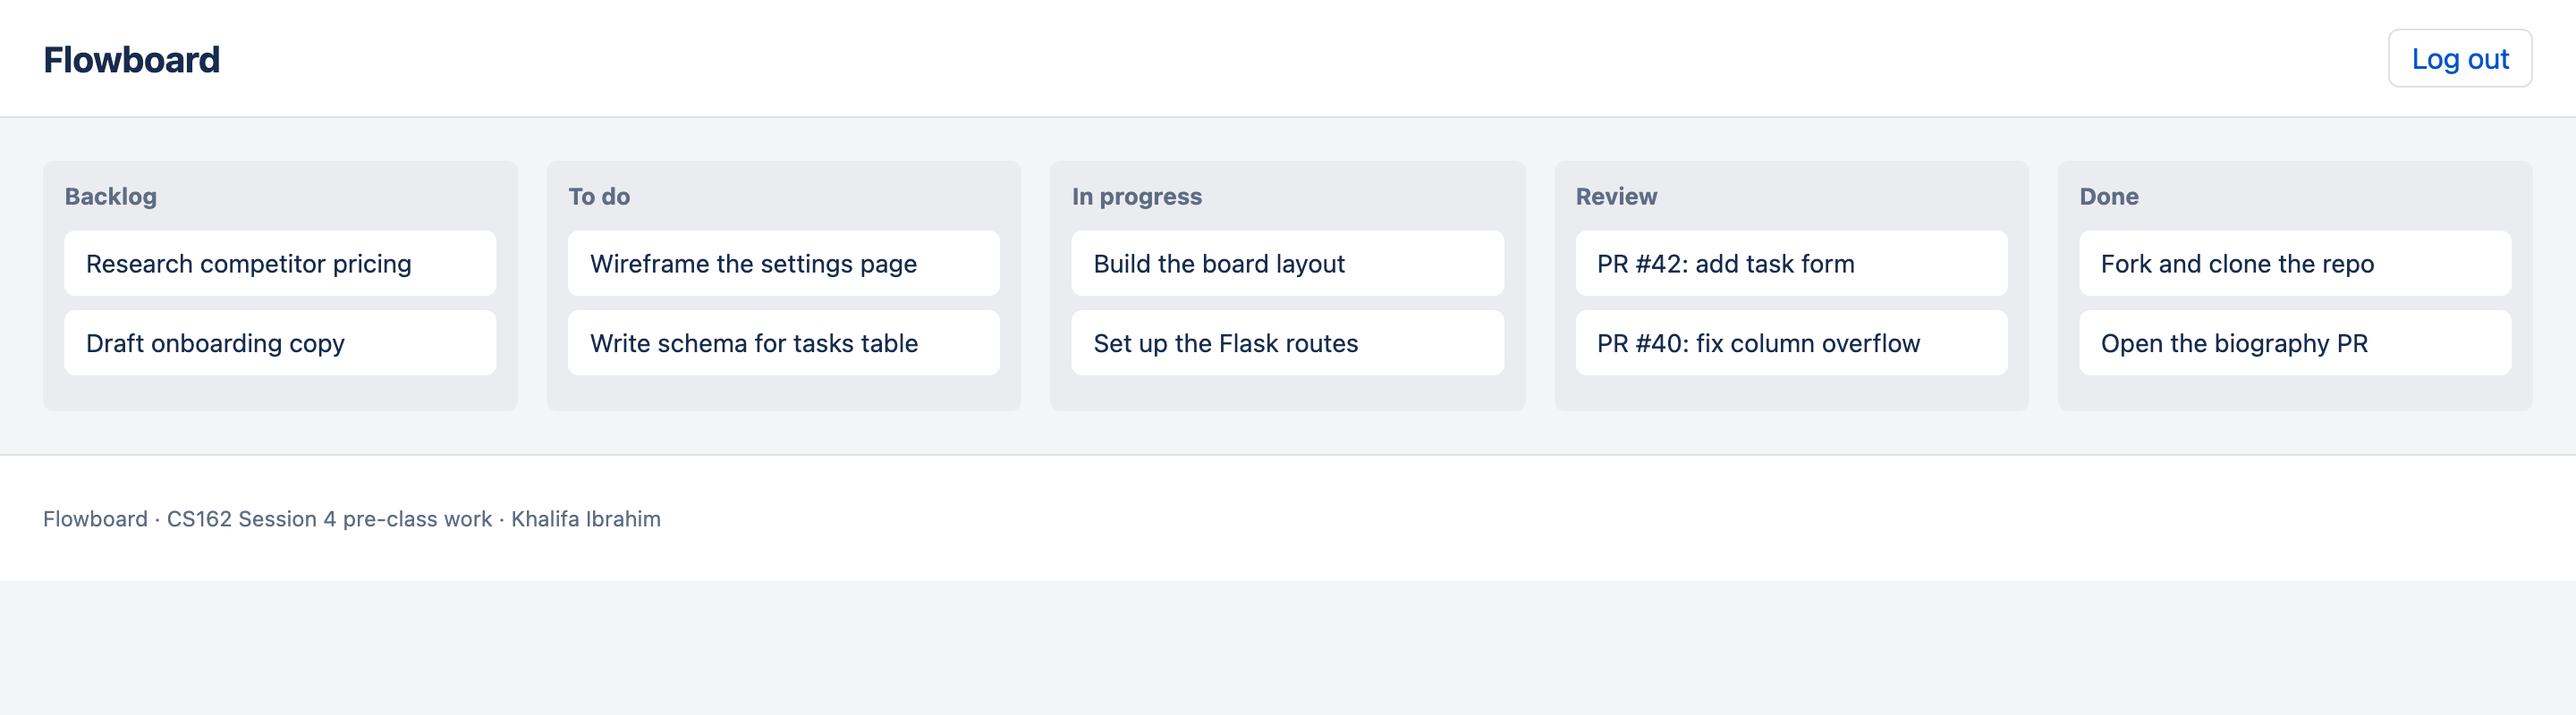
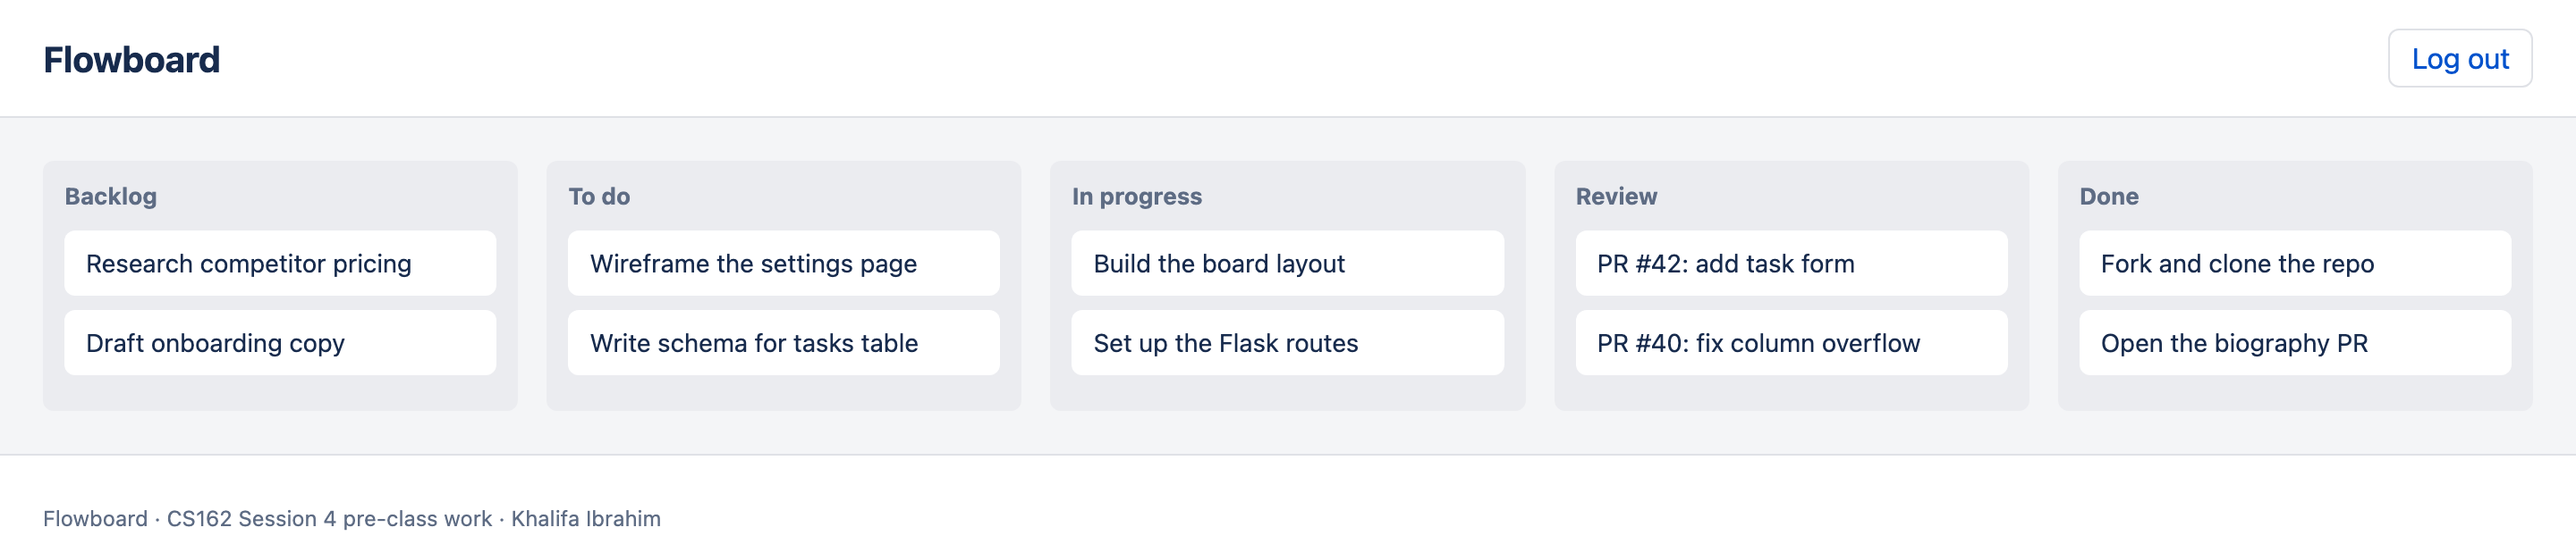
Add Gourmet Delights restaurant page

diff --git a/session_04/restaurant/index.html b/session_04/restaurant/index.html
@@ -1,0 +1,106 @@
+<!DOCTYPE html>
+<html lang="en">
+<head>
+  <meta charset="utf-8">
+  <meta name="viewport" content="width=device-width, initial-scale=1">
+  <title>Gourmet Delights</title>
+  <link rel="stylesheet" href="styles.css">
+</head>
+<body>
+
+  <!-- 1. Header: name + welcoming banner -->
+  <header class="banner">
+    <h1>Gourmet Delights</h1>
+    <p class="tagline">Seasonal plates, served slowly.</p>
+  </header>
+
+  <!-- Optional nav. Each href points at a section id further down the page. -->
+  <nav class="site-nav">
+    <ul>
+      <li><a href="#about">About</a></li>
+      <li><a href="#menu">Menu</a></li>
+      <li><a href="#contact">Contact</a></li>
+    </ul>
+  </nav>
+
+  <main>
+
+    <!-- 2. About Us -->
+    <section id="about">
+      <h2>About Us</h2>
+      <p>
+        Gourmet Delights began as a six-seat kitchen and never quite lost the habit.
+        We cook what the season gives us, change the menu when it stops making sense,
+        and keep the room quiet enough to hear the person across the table. Everything
+        is prepared in-house, from the bread to the last spoonful of sauce.
+      </p>
+    </section>
+
+    <!-- 3. Menu Highlights -->
+    <section id="menu">
+      <h2>Menu Highlights</h2>
+      <ul class="dishes">
+        <li>
+          <h3>Seared Scallops <span class="price">24</span></h3>
+          <p>Cauliflower purée, brown butter, capers and a squeeze of lemon.</p>
+        </li>
+        <li>
+          <h3>Wild Mushroom Risotto <span class="price">21</span></h3>
+          <p>Carnaroli rice, aged parmesan, thyme, finished with truffle oil.</p>
+        </li>
+        <li>
+          <h3>Duck Breast <span class="price">32</span></h3>
+          <p>Rendered slowly, served pink, with charred chicory and cherry jus.</p>
+        </li>
+        <li>
+          <h3>Heritage Carrot Tart <span class="price">19</span></h3>
+          <p>Butter pastry, whipped goat's cheese, honey and toasted hazelnut.</p>
+        </li>
+        <li>
+          <h3>Dark Chocolate Pot <span class="price">11</span></h3>
+          <p>Seventy percent chocolate, sea salt, olive oil, shortbread on the side.</p>
+        </li>
+      </ul>
+    </section>
+
+    <!-- 4. Contact: details + enquiry form -->
+    <section id="contact">
+      <h2>Contact</h2>
+
+      <address>
+        112 Fillmore Street<br>
+        San Francisco, CA 94115<br>
+        <a href="tel:+14155550142">(415) 555-0142</a><br>
+        <a href="mailto:hello@gourmetdelights.example">hello@gourmetdelights.example</a>
+      </address>
+
+      <form class="contact-form">
+        <h3>Send an enquiry</h3>
+
+        <label for="name">Name</label>
+        <input id="name" name="name" type="text" required>
+
+        <label for="email">Email</label>
+        <input id="email" name="email" type="email" required>
+
+        <label for="message">Message</label>
+        <textarea id="message" name="message" rows="5" required></textarea>
+
+        <button type="submit">Send enquiry</button>
+      </form>
+    </section>
+
+  </main>
+
+  <!-- 5. Footer: social links -->
+  <footer>
+    <ul class="social">
+      <li><a href="#">Instagram</a></li>
+      <li><a href="#">Facebook</a></li>
+      <li><a href="#">X</a></li>
+    </ul>
+    <p class="copyright">&copy; 2026 Gourmet Delights &middot; San Francisco</p>
+  </footer>
+
+</body>
+</html>

diff --git a/session_04/restaurant/styles.css b/session_04/restaurant/styles.css
@@ -1,0 +1,201 @@
+* { box-sizing: border-box; }
+
+body {
+  margin: 0;
+  font-family: Georgia, "Times New Roman", serif;
+  line-height: 1.6;
+  color: #2e2a26;
+  background: #fdfbf7;
+}
+
+/* ---- Header / banner ---- */
+.banner {
+  background: linear-gradient(160deg, #2e2a26, #5c4733);
+  color: #f6efe4;
+  text-align: center;
+  padding: 90px 24px;
+}
+
+.banner h1 {
+  margin: 0;
+  font-size: 48px;
+  font-weight: normal;
+  letter-spacing: 2px;
+}
+
+.tagline {
+  margin: 12px 0 0;
+  font-style: italic;
+  color: #d9c9b0;
+}
+
+/* ---- Navigation ---- */
+.site-nav {
+  background: #2e2a26;
+  border-top: 1px solid #5c4733;
+  position: sticky;
+  top: 0;
+}
+
+.site-nav ul {
+  list-style: none;
+  margin: 0;
+  padding: 0;
+  display: flex;
+  justify-content: center;
+  gap: 40px;
+}
+
+.site-nav a {
+  display: block;
+  padding: 14px 0;
+  color: #d9c9b0;
+  text-decoration: none;
+  font-size: 14px;
+  letter-spacing: 1px;
+  text-transform: uppercase;
+}
+
+.site-nav a:hover { color: #fff; }
+
+/* ---- Sections ---- */
+main {
+  max-width: 760px;
+  margin: 0 auto;
+  padding: 0 24px;
+}
+
+section {
+  padding: 56px 0;
+  border-bottom: 1px solid #e8e0d4;
+}
+
+h2 {
+  font-size: 28px;
+  font-weight: normal;
+  margin: 0 0 20px;
+}
+
+/* ---- Menu ---- */
+.dishes {
+  list-style: none;
+  margin: 0;
+  padding: 0;
+}
+
+.dishes li {
+  padding: 18px 0;
+  border-bottom: 1px dotted #ddd2c2;
+}
+
+.dishes h3 {
+  margin: 0;
+  font-size: 19px;
+  font-weight: normal;
+  display: flex;
+  justify-content: space-between;
+  align-items: baseline;
+  gap: 16px;
+}
+
+.dishes p {
+  margin: 4px 0 0;
+  color: #6b625a;
+  font-size: 15px;
+}
+
+.price {
+  color: #8a6d4b;
+  font-size: 17px;
+}
+
+/* ---- Contact ---- */
+address {
+  font-style: normal;
+  margin-bottom: 36px;
+  color: #6b625a;
+}
+
+address a { color: #8a6d4b; }
+
+.contact-form {
+  display: flex;
+  flex-direction: column;
+  max-width: 440px;
+}
+
+.contact-form h3 {
+  font-size: 19px;
+  font-weight: normal;
+  margin: 0 0 16px;
+}
+
+label {
+  font-size: 13px;
+  letter-spacing: 0.5px;
+  text-transform: uppercase;
+  color: #6b625a;
+  margin-bottom: 6px;
+}
+
+input, textarea {
+  font-family: inherit;
+  font-size: 15px;
+  padding: 10px;
+  margin-bottom: 18px;
+  border: 1px solid #ddd2c2;
+  background: #fff;
+  border-radius: 3px;
+}
+
+button {
+  font-family: inherit;
+  font-size: 14px;
+  letter-spacing: 1px;
+  text-transform: uppercase;
+  padding: 12px;
+  border: none;
+  border-radius: 3px;
+  background: #5c4733;
+  color: #f6efe4;
+  cursor: pointer;
+}
+
+button:hover { background: #2e2a26; }
+
+/* ---- Footer ---- */
+footer {
+  background: #2e2a26;
+  color: #d9c9b0;
+  text-align: center;
+  padding: 36px 24px;
+}
+
+.social {
+  list-style: none;
+  margin: 0 0 14px;
+  padding: 0;
+  display: flex;
+  justify-content: center;
+  gap: 28px;
+}
+
+.social a {
+  color: #d9c9b0;
+  text-decoration: none;
+  font-size: 14px;
+}
+
+.social a:hover { color: #fff; }
+
+.copyright {
+  margin: 0;
+  font-size: 13px;
+  color: #8a7a66;
+}
+
+@media (max-width: 600px) {
+  .banner { padding: 60px 20px; }
+  .banner h1 { font-size: 34px; }
+  .site-nav ul { gap: 22px; }
+}
